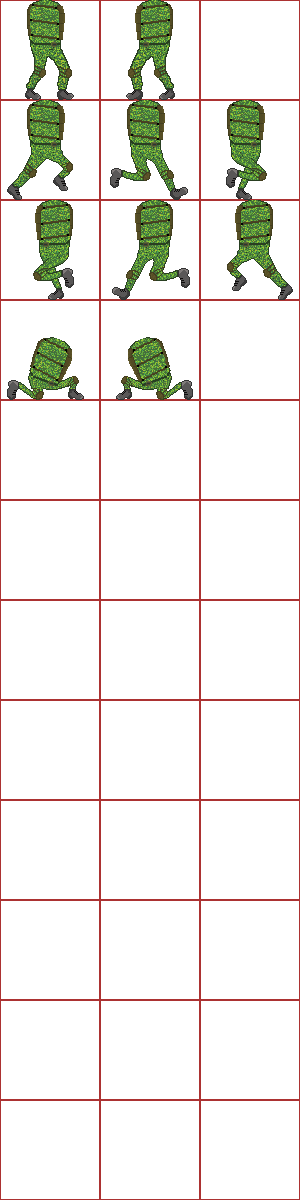
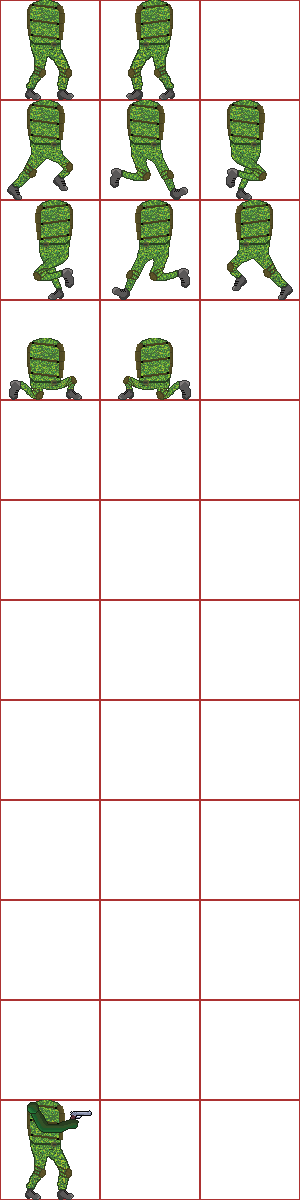
add weapon

Changed region(s): [[0.06, 0.8942, 0.3, 1.0], [0.39, 0.2775, 0.66, 0.3392], [0.03, 0.2775, 0.27, 0.3392]]

diff --git a/src/entities/player.ts b/src/entities/player.ts
@@ -3,8 +3,10 @@ import { SPRITES, SIZES } from '../utils/constants.ts';
 
 export class Player extends Phaser.GameObjects.Container {
     public physicalBody: Phaser.Physics.Arcade.Sprite;
-    private bodySprite: Phaser.GameObjects.Sprite; // Renamed from 'body' to 'bodySprite'
+    private bodySprite: Phaser.GameObjects.Sprite;
     private head: Phaser.GameObjects.Sprite;
+    private hand: Phaser.GameObjects.Sprite;
+    private weapon: Phaser.GameObjects.Sprite;
     private textureKey: string;
     private isFacingRight: boolean = true;
     private isMoving: boolean = false;
@@ -12,6 +14,13 @@ export class Player extends Phaser.GameObjects.Container {
     private isCrouching: boolean = false;
     private moveSpeed: number = 200;
     private jumpSpeed: number = 400;
+    // Store original physical body dimensions and offset
+    private originalBodyHeight: number;
+    private originalBodyOffsetY: number;
+    // Store original sprite positions
+    private originalHeadY: number;
+    private originalHandY: number;
+    private originalWeaponY: number;
 
     constructor(scene: Phaser.Scene, x: number, y: number, texture: string) {
         super(scene, x, y);
@@ -30,6 +39,10 @@ export class Player extends Phaser.GameObjects.Container {
         this.physicalBody.setSize(SIZES.PLAYER.BODY_WIDTH * 0.3, totalHeight);
         this.physicalBody.setOffset(2.9 * headOffset, headOffset);
 
+        // Store original dimensions and offset
+        this.originalBodyHeight = totalHeight;
+        this.originalBodyOffsetY = headOffset;
+
         // Create visual body sprite
         this.bodySprite = new Phaser.GameObjects.Sprite(scene, 0, 0, texture, 0);
         this.bodySprite.setOrigin(0.5, 0.5);
@@ -41,9 +54,22 @@ export class Player extends Phaser.GameObjects.Container {
         this.head.setOrigin(0.5, 0.8);
         this.head.setScale(0.5);
         this.add(this.head);
+        this.originalHeadY = -27; // Store original head Y position
+
+        // Create hand
+        this.hand = new Phaser.GameObjects.Sprite(scene, -8, -20, SPRITES.PLAYER.HAND, 0);
+        this.hand.setScale(0.5);
+        this.add(this.hand);
+        this.originalHandY = -20; // Store original hand Y position
+
+        // Create weapon
+        this.weapon = new Phaser.GameObjects.Sprite(scene, 8, -20, SPRITES.WEAPON.GUN, 0);
+        this.weapon.setScale(0.5);
+        this.add(this.weapon);
+        this.originalWeaponY = -20; // Store original weapon Y position
 
         // Add container to scene
-        scene.add.existing(this as Phaser.GameObjects.GameObject); // Type assertion
+        scene.add.existing(this as Phaser.GameObjects.GameObject);
 
         // Create animations
         const anims = scene.anims;
@@ -95,6 +121,7 @@ export class Player extends Phaser.GameObjects.Container {
 
         // Reset flags
         this.isMoving = false;
+        const wasCrouching = this.isCrouching; // Track previous crouch state
         this.isCrouching = false;
 
         // Check if on ground
@@ -123,6 +150,37 @@ export class Player extends Phaser.GameObjects.Container {
             this.physicalBody.setVelocityX(0);
         }
 
+        // Handle crouching physical and visual adjustments
+        const crouchHeightReduction = this.originalBodyHeight * 0.3; // Reduce height by 30% when crouching
+        if (this.isCrouching && !wasCrouching) {
+            // Adjust physical body size and offset
+            const newHeight = this.originalBodyHeight - crouchHeightReduction;
+            const newOffsetY = this.originalBodyOffsetY + crouchHeightReduction;
+            this.physicalBody.setSize(
+                SIZES.PLAYER.BODY_WIDTH * 0.3,
+                newHeight
+            );
+            this.physicalBody.setOffset(2.9 * this.originalBodyOffsetY, newOffsetY);
+
+            // Lower visual components
+            const crouchOffset = crouchHeightReduction; // Same offset for visual alignment
+            this.head.y = this.originalHeadY + crouchOffset;
+            this.hand.y = this.originalHandY + crouchOffset;
+            this.weapon.y = this.originalWeaponY + crouchOffset;
+        } else if (!this.isCrouching && wasCrouching) {
+            // Restore physical body size and offset
+            this.physicalBody.setSize(
+                SIZES.PLAYER.BODY_WIDTH * 0.3,
+                this.originalBodyHeight
+            );
+            this.physicalBody.setOffset(2.9 * this.originalBodyOffsetY, this.originalBodyOffsetY);
+
+            // Restore visual components
+            this.head.y = this.originalHeadY;
+            this.hand.y = this.originalHandY;
+            this.weapon.y = this.originalWeaponY;
+        }
+
         // Manage body animations
         if (this.isJumping) {
             this.bodySprite.setFrame(this.isFacingRight ? 3 : 8);
@@ -143,19 +201,38 @@ export class Player extends Phaser.GameObjects.Container {
             this.bodySprite.setFrame(this.isFacingRight ? 0 : 1);
         }
 
-        // Manage head frame
+        // Manage head, hand, and weapon frames
         this.head.setFrame(this.isFacingRight ? 0 : 1);
+        this.hand.setFrame(this.isFacingRight ? 0 : 1);
+        this.weapon.setFrame(this.isFacingRight ? 0 : 1);
 
-        // Rotate head toward mouse
-        let angleToPointer = Phaser.Math.Angle.Between(this.x, this.y, worldPoint.x, worldPoint.y);
+        // Adjust positions for facing direction
+        if (this.isFacingRight) {
+            this.hand.setPosition(-8, this.hand.y); // Maintain adjusted Y
+            this.hand.setOrigin(0.2, 0.2);
+
+            this.weapon.setPosition(-10, this.weapon.y); // Maintain adjusted Y
+            this.weapon.setOrigin(-1.5, -0.8);
+        } else {
+            this.hand.setPosition(7, this.hand.y); // Maintain adjusted Y
+            this.hand.setOrigin(0.8, 0.2);
+
+            this.weapon.setPosition(9, this.weapon.y); // Maintain adjusted Y
+            this.weapon.setOrigin(2.5, -0.8);
+        }
+
+        // Rotate head, hand, and weapon toward mouse
+        let angleToPointer = Phaser.Math.Angle.Between(
+            this.x,
+            this.y + this.head.y, // Use adjusted head Y position
+            worldPoint.x,
+            worldPoint.y
+        );
         if (!this.isFacingRight) {
             angleToPointer = Math.PI + angleToPointer;
         }
         this.head.rotation = angleToPointer;
-
-        // Debug for jump
-        if (keys.up.isDown) {
-            console.log(`Up pressed, isOnGround: ${isOnGround}, isJumping: ${this.isJumping}`);
-        }
+        this.hand.rotation = angleToPointer;
+        this.weapon.rotation = angleToPointer;
     }
 }

diff --git a/src/scenes/location_education.ts b/src/scenes/location_education.ts
@@ -20,6 +20,14 @@ export class LocationEducation extends Phaser.Scene {
             frameWidth: SIZES.PLAYER.HEAD_WIDTH,
             frameHeight: SIZES.PLAYER.HEAD_HEIGHT,
         });
+        this.load.spritesheet(SPRITES.PLAYER.HAND, 'src/assets/characters/firstPlayerHand.png', {
+            frameWidth: SIZES.PLAYER.HAND_WIDTH,
+            frameHeight: SIZES.PLAYER.HAND_HEIGHT,
+        });
+        this.load.spritesheet(SPRITES.WEAPON.GUN, 'src/assets/weapon/firstGun.png', {
+            frameWidth: SIZES.WEAPON.FIRST_GUN_WIDTH,
+            frameHeight: SIZES.WEAPON.FIRST_GUN_HEIGHT,
+        });
     }
 
     create() {

diff --git a/src/utils/constants.ts b/src/utils/constants.ts
@@ -11,6 +11,10 @@ export const SIZES ={
         HEAD_HEIGHT: 29,
         HAND_WIDTH: 52,
         HAND_HEIGHT: 31
+    },
+    WEAPON:{
+        FIRST_GUN_WIDTH: 22,
+        FIRST_GUN_HEIGHT: 9
     }
 }
 
@@ -23,6 +27,10 @@ export const LAYERS ={
 export const SPRITES ={
     PLAYER:{
         BODY: 'PlayerBody',
-        HEAD: 'PlayerHead'
+        HEAD: 'PlayerHead',
+        HAND: 'PlayerHand'
+    },
+    WEAPON:{
+        GUN:'Gun'
     }
 }
